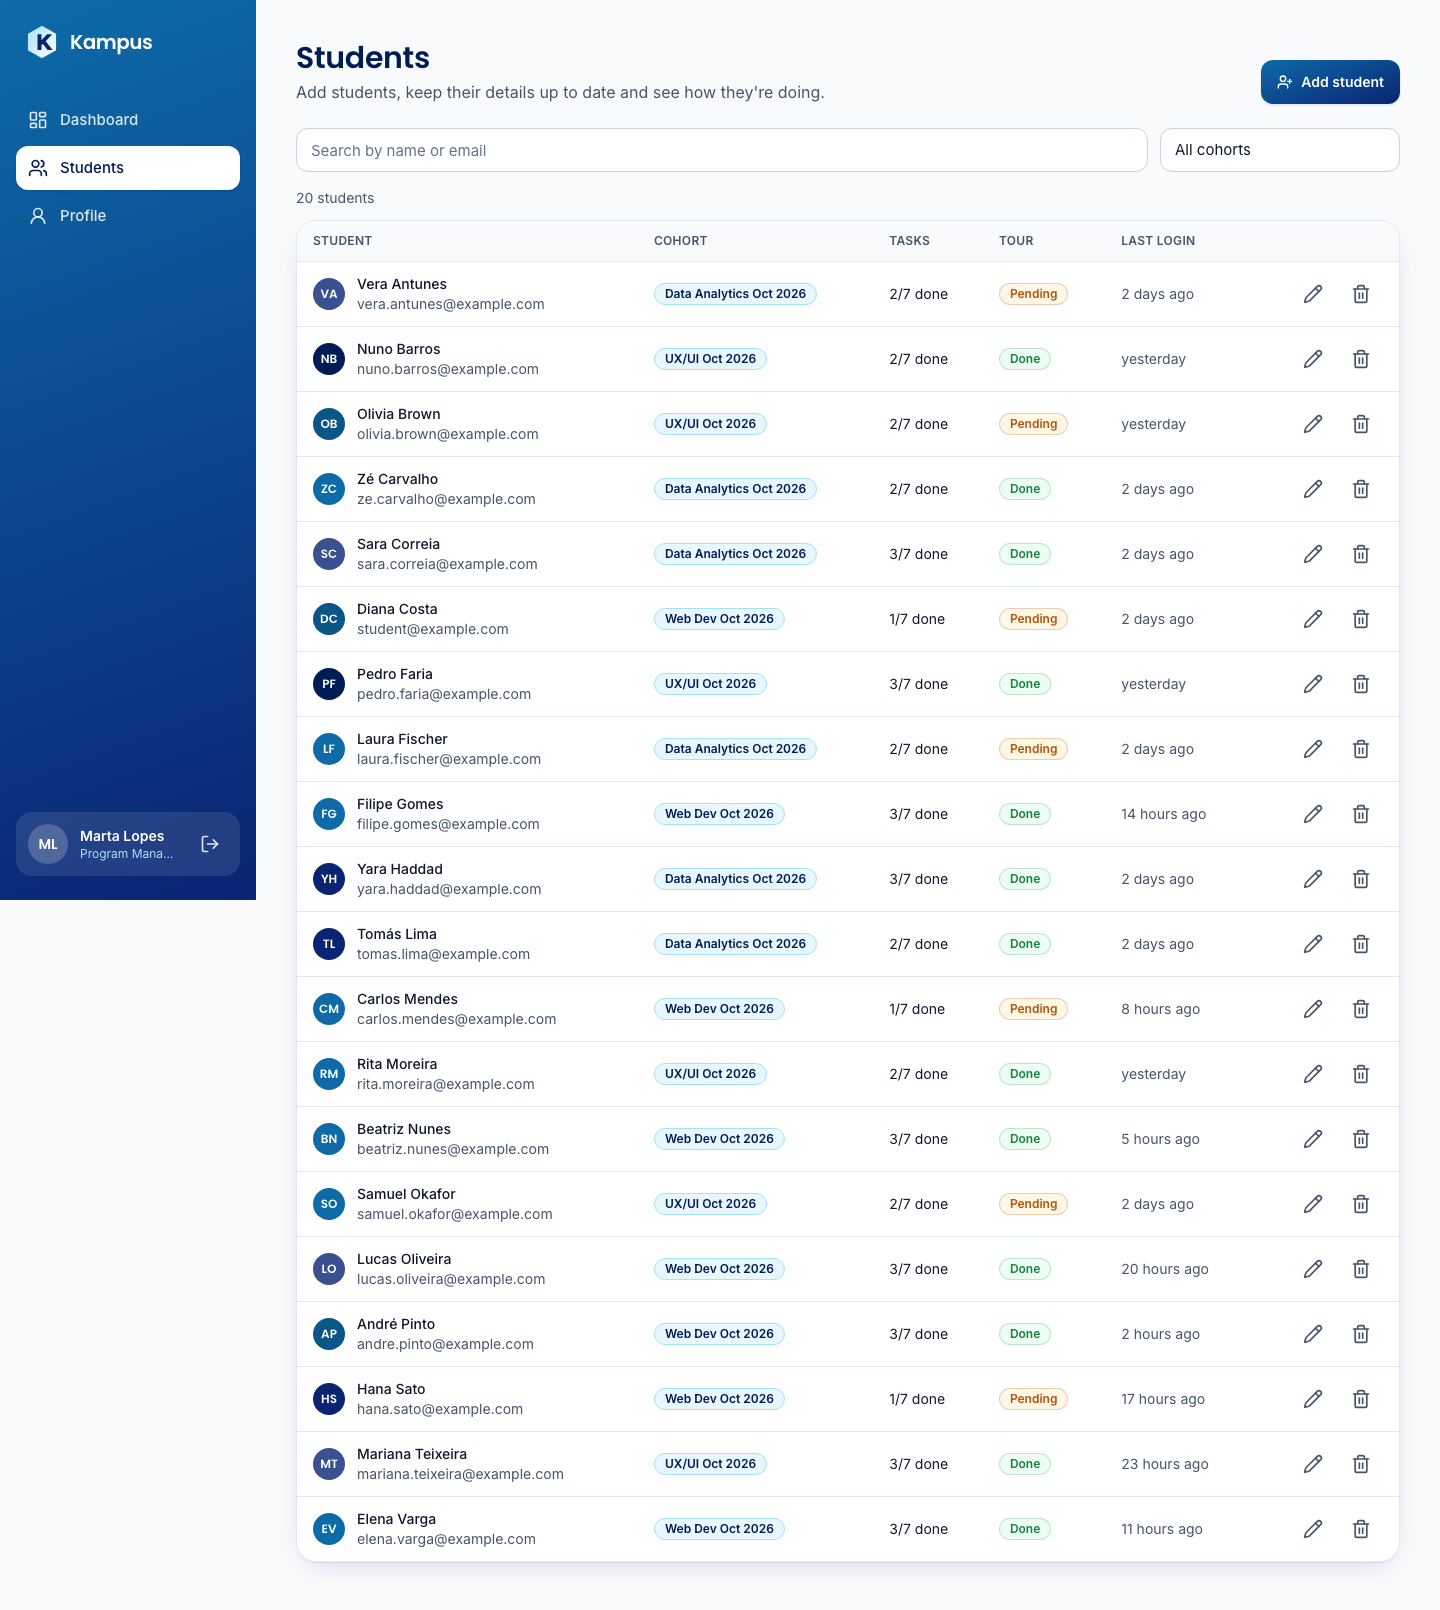
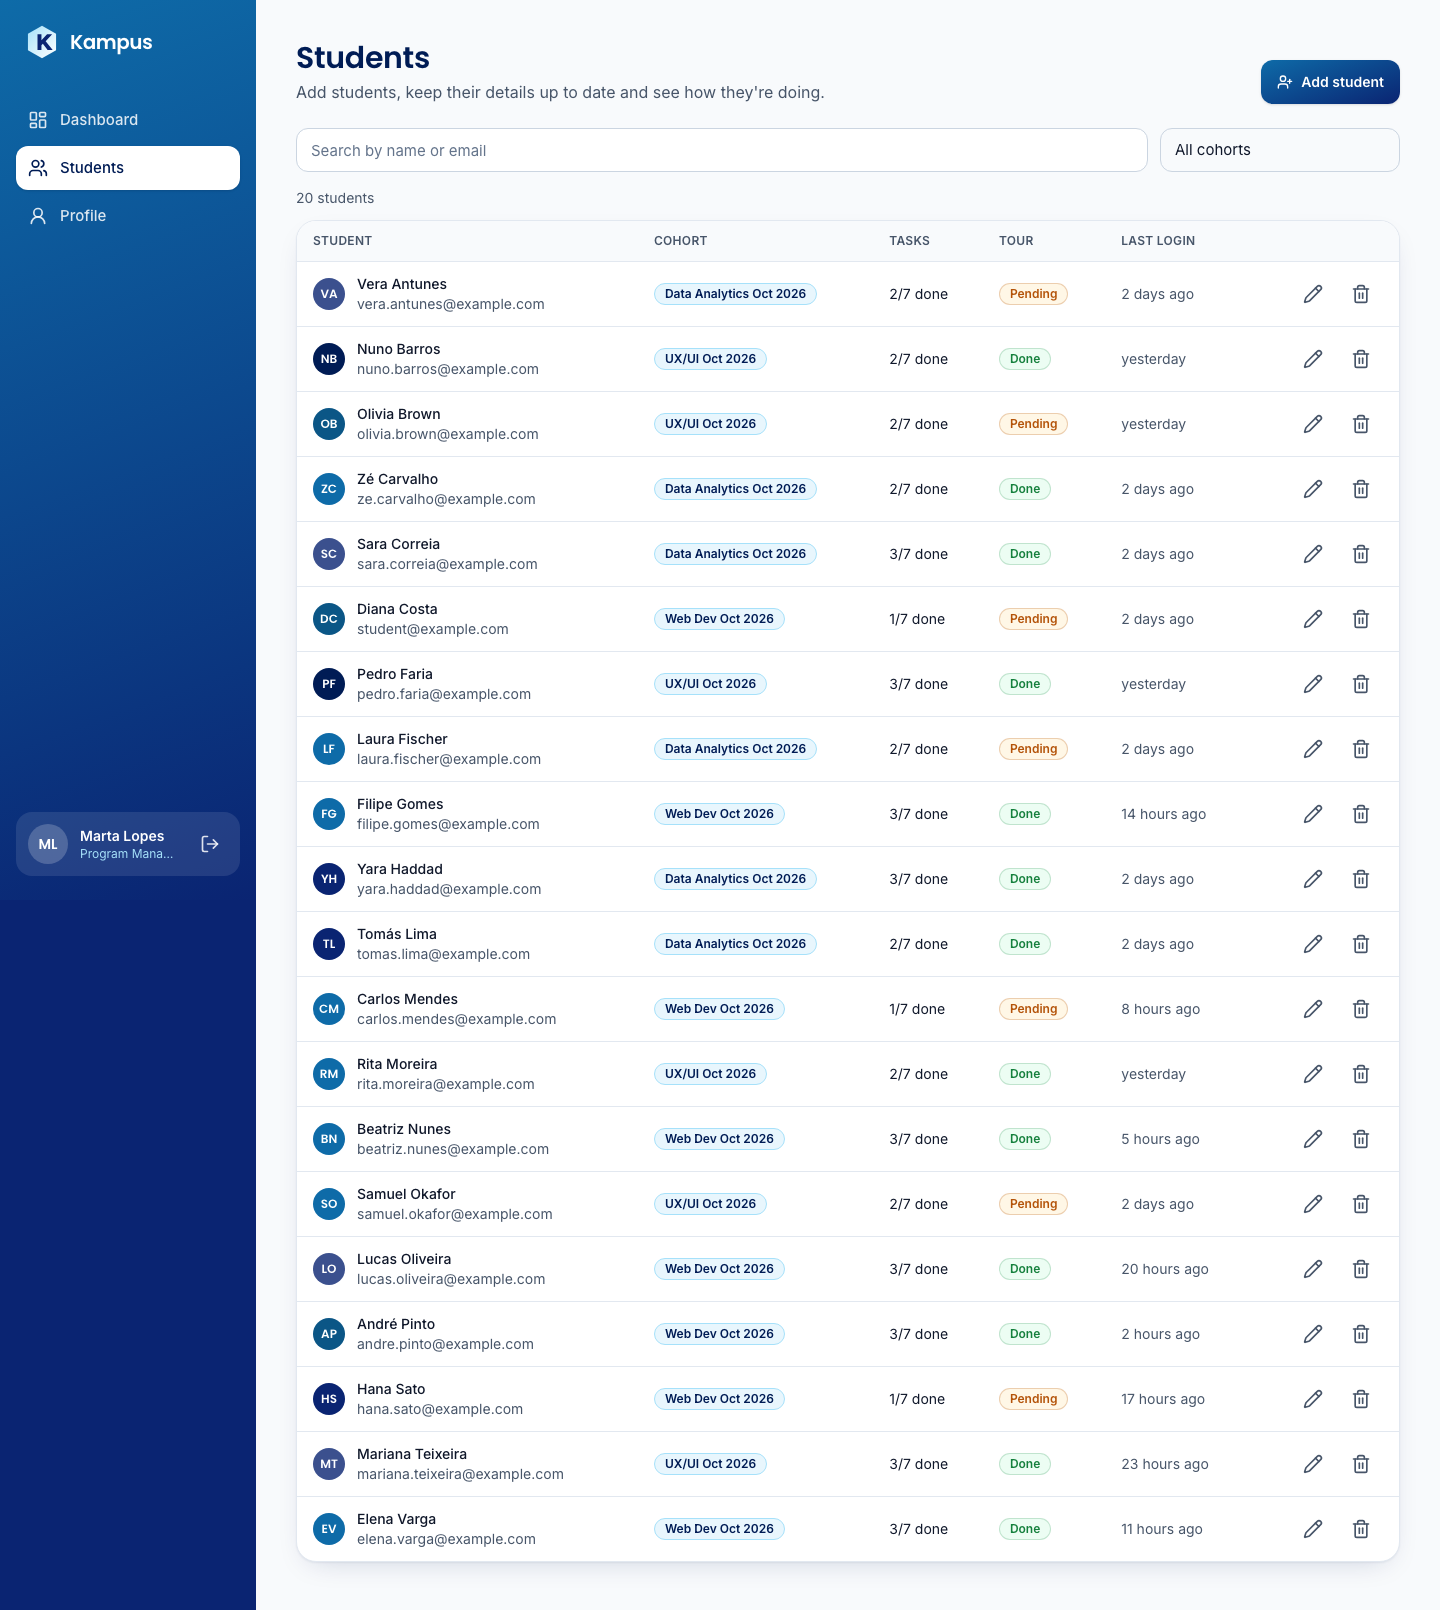
Prints e vídeo regenerados; sidebar inteira nos prints de página inteira

Changed region(s): [[0.0, 0.559, 0.1875, 1.0]]

diff --git a/client/src/components/layout/AppShell.tsx b/client/src/components/layout/AppShell.tsx
@@ -27,7 +27,9 @@ function Sidebar({ role }: { role: Role }) {
   const user = useCurrentUser();
   const signOut = useSignOut(role);
   return (
-    <aside className="bg-kampus-gradient sticky top-0 z-30 hidden h-dvh w-64 shrink-0 flex-col px-4 py-6 text-white lg:flex">
+    // A coluna estica com a página (fundo no tom final do gradiente); o painel com o gradiente fica preso ao topo.
+    <div className="hidden w-64 shrink-0 bg-kampus-indigo lg:block">
+    <aside className="bg-kampus-gradient sticky top-0 z-30 flex h-dvh flex-col px-4 py-6 text-white">
       <Link to={HOME[role]} className="focus-on-dark mb-8 px-2">
         <Logo onDark />
         <span className="sr-only">, go to home</span>
@@ -61,6 +63,7 @@ function Sidebar({ role }: { role: Role }) {
         <IconButton label="Log out" icon={<LogOut />} variant="onDark" size="sm" onClick={signOut} />
       </div>
     </aside>
+    </div>
   );
 }
 

diff --git a/scripts/prints.ts b/scripts/prints.ts
@@ -69,6 +69,8 @@ async function shoot(context: BrowserContext, shots: Shot[], viewport: ViewportN
     const path = typeof shot.path === "string" ? shot.path : await shot.path(page);
     await page.goto(path, { waitUntil: "networkidle" });
     if (shot.waitFor) await page.getByText(shot.waitFor, { exact: false }).filter({ visible: true }).first().waitFor({ timeout: 10_000 });
+    // Print de página inteira: a barra inferior (fixed) iria aparecer a meio da imagem; aqui fica no fim da página.
+    await page.addStyleTag({ content: 'nav[aria-label="Main"].fixed { position: static !important; }' });
     await page.evaluate(() => document.fonts.ready);
     // Imagens (cenários da visita) carregadas antes do print.
     await page.waitForFunction(() => Array.from(document.images).every((img) => img.complete));

diff --git a/scripts/video.ts b/scripts/video.ts
@@ -124,7 +124,7 @@ if (ffmpeg.status === 0) {
   // GIF curto para o README: os primeiros 14 s (entrada, login e visita).
   spawnSync(
     "ffmpeg",
-    ["-y", "-loglevel", "error", "-t", "14", "-i", `${OUT}/kampus-demo.webm`, "-vf", "fps=10,scale=800:-1:flags=lanczos,split[a][b];[a]palettegen=max_colors=128[p];[b][p]paletteuse=dither=bayer", `${OUT}/kampus-demo.gif`],
+    ["-y", "-loglevel", "error", "-t", "14", "-i", `${OUT}/kampus-demo.webm`, "-vf", "fps=8,scale=720:-1:flags=lanczos,split[a][b];[a]palettegen=max_colors=128[p];[b][p]paletteuse=dither=bayer", `${OUT}/kampus-demo.gif`],
     { stdio: "inherit" },
   );
   console.log("Video done: docs/video/kampus-demo.{webm,mp4,gif}");
